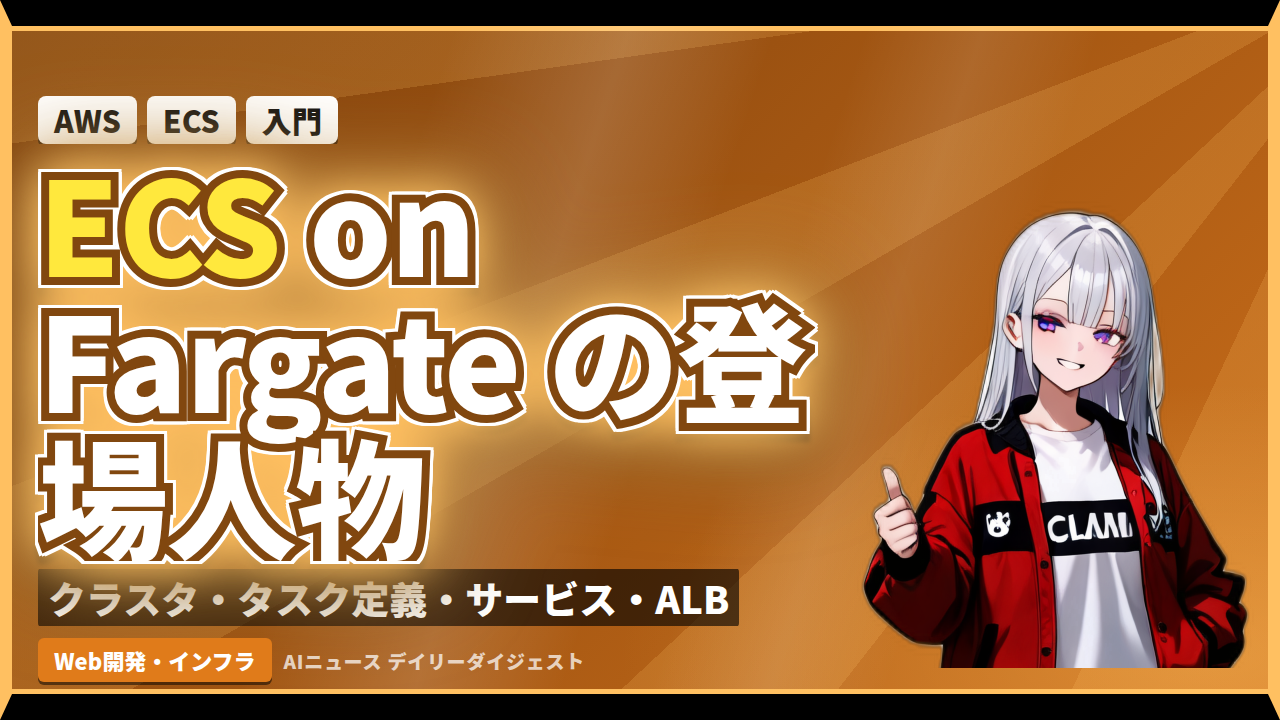
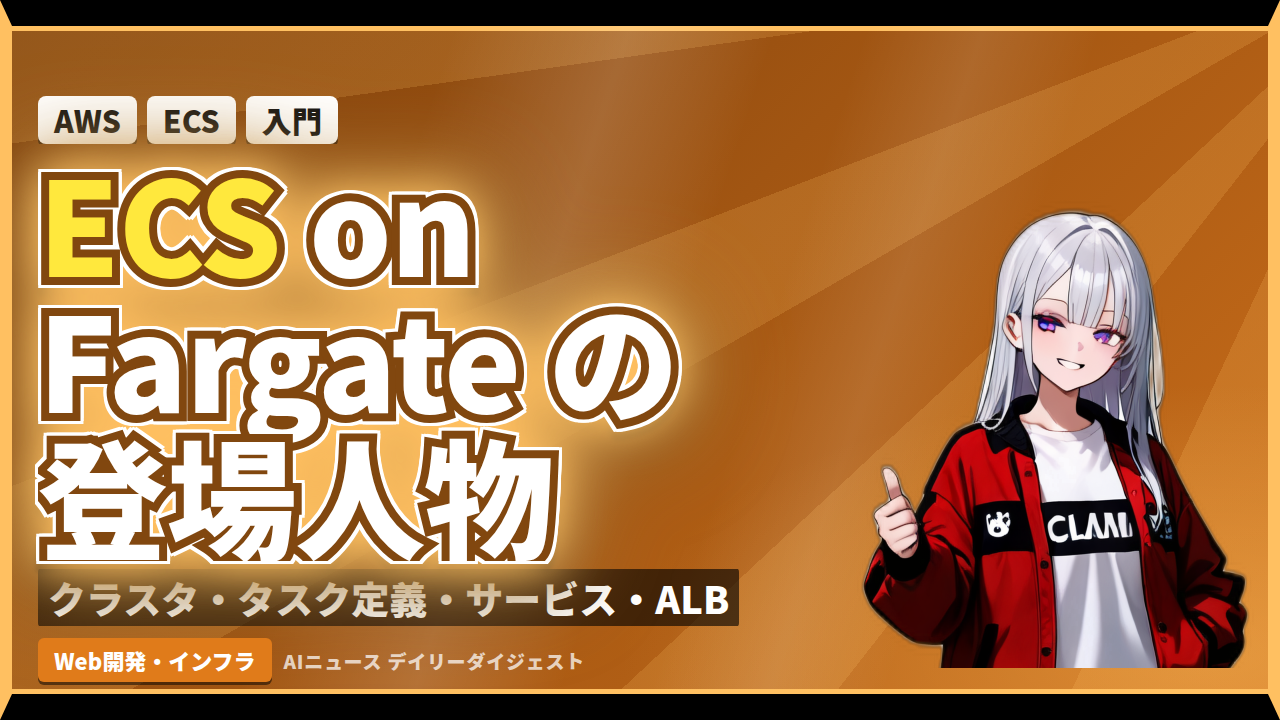
サムネイルの語中改行を修正(word-break:auto-phrase)し全25枚を撮り直し
主役文字が「レビュ/ー」のように語の途中で折れていたのを、文節で折れるよう
auto-phrase + line-break:strict に変更(動画スライドで実証済みの組み合わせ。
フックには適用済みだったが主役文字は overflow-wrap:anywhere のままだった)。

Claude-Session: https://claude.ai/code/session_01JP8rWV8mY2mR6rnHTnR2Q7

Changed region(s): [[0.0, 0.55, 0.4688, 0.8556], [0.5, 0.3667, 0.6562, 0.6417]]

diff --git a/_render_thumbs.py b/_render_thumbs.py
@@ -471,7 +471,10 @@ body{{font-family:'NotoJP','IPAGothic',sans-serif;background:#000}}
     drop-shadow(0 3px 0 #fff) drop-shadow(0 -3px 0 #fff)
     drop-shadow(0 0 22px {t['accent']}) drop-shadow(0 0 44px {t['accent']})
     drop-shadow(0 8px 2px rgba(0,0,0,.6));
-  overflow-wrap:anywhere;letter-spacing:-.01em;
+  /* 語中改行(「レビュ/ー」)と行頭の長音を防ぐ。auto-phrase は文節で折り、
+     効かない環境でも break-word が安全網になる(動画スライドで実証済み) */
+  overflow-wrap:break-word;word-break:auto-phrase;line-break:strict;
+  letter-spacing:-.01em;
   display:-webkit-box;-webkit-line-clamp:{main_lines};-webkit-box-orient:vertical;overflow:hidden;
 }}
 .main em{{font-style:normal;color:#ffe83d}}
